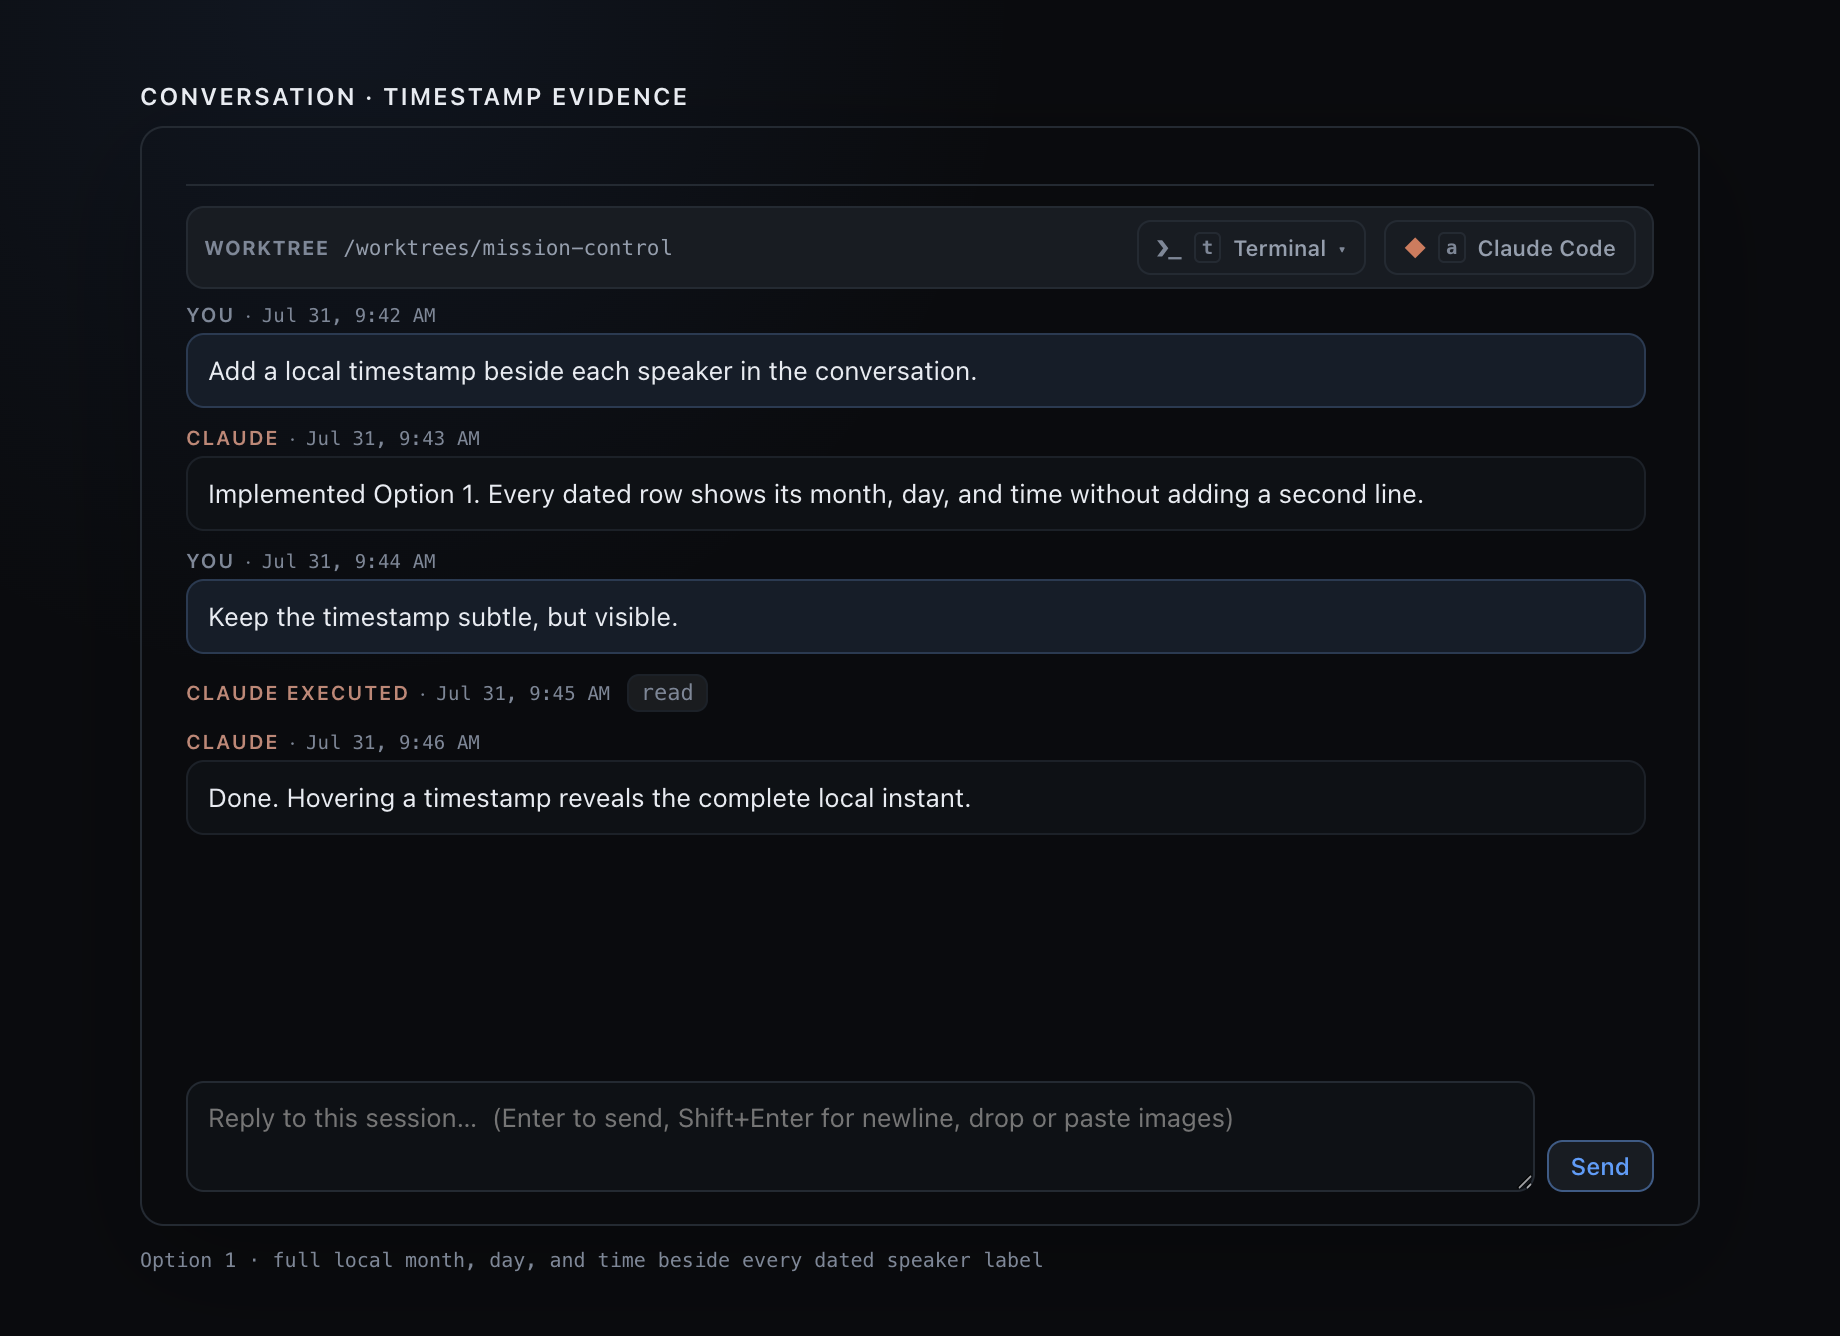
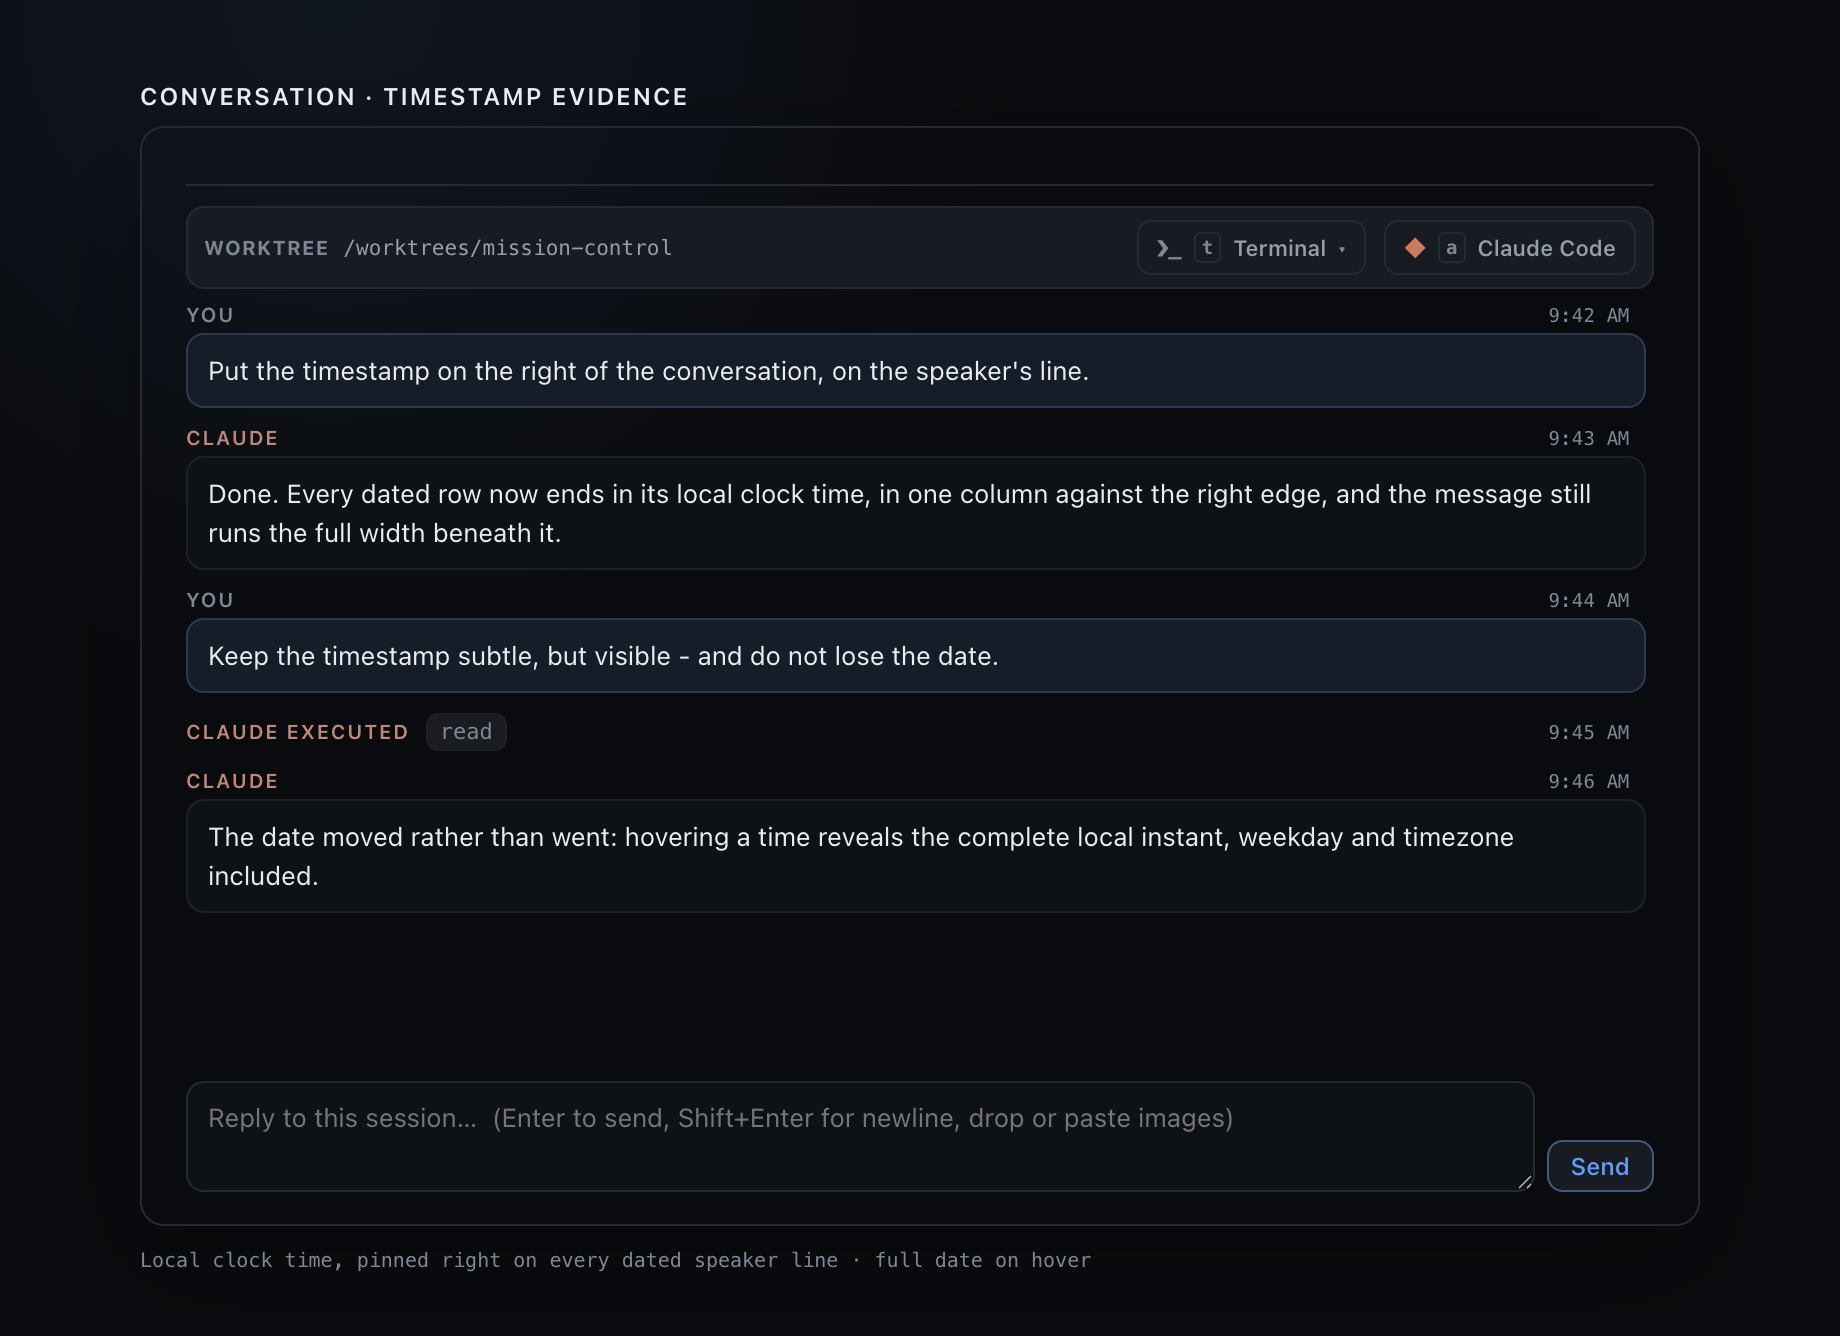
feat(console): pin the conversation clock to the right of each byline
The transcript timestamp followed the speaker label, so it landed in a
different place on every row - the eye had to re-find it after each name.
It is now pinned to the right edge of the row it belongs to, on the
speaker's own baseline, forming one column down the log.

It stays a flex item of the byline's line box rather than a float or a
column of its own, so the message below still runs the full width: the
clock costs the conversation no measure. A folded tool run lays its label
and chips along one line, so its timestamp moves up to the row itself,
which is the box whose right edge is the log's.

The row shows the clock alone. The date was the one field that repeated
unchanged down a whole session, and it is not lost - the hover tooltip
and the accessible description still carry weekday, date, seconds, and
zone. The label/time separator goes with it, having nothing left to part.

One consequence, measured rather than assumed: the platform paints an
overlay scrollbar ON the log, and `scrollbar-gutter: stable` reserves
nothing against it. That was harmless while every row ended in bubble
padding, but it swallowed the clock's last character while scrolling, so
the clock carries its own inset. The bubbles keep their shared right edge
with the reply box.

Evidence capture regenerated; its script now asserts the pinning geometry
before the shutter instead of leaving it to the reviewer's eye.

diff --git a/test/conversation-timestamp.test.ts b/test/conversation-timestamp.test.ts
@@ -1,5 +1,7 @@
 import { beforeEach, test } from "node:test";
 import assert from "node:assert/strict";
+import { readFileSync } from "node:fs";
+import { fileURLToPath } from "node:url";
 import { createElement } from "react";
 import { renderToStaticMarkup } from "react-dom/server";
 import type { ForemanEpisode, TranscriptMessage } from "../src/shared/types.ts";
@@ -18,11 +20,11 @@ const AT = Date.parse("2026-07-31T13:42:07.000Z");
 
 beforeEach(() => resetHistories());
 
-test("conversation timestamps follow an explicit locale and timezone", () => {
-  assert.equal(
-    formatConversationTimestamp(AT, "en-US", "America/New_York"),
-    "Jul 31, 9:42 AM",
-  );
+test("a conversation timestamp shows the clock alone, and hides no part of the instant", () => {
+  // The row is the time only - the date it drops is the field that repeats down the log.
+  assert.equal(formatConversationTimestamp(AT, "en-US", "America/New_York"), "9:42 AM");
+  assert.doesNotMatch(formatConversationTimestamp(AT, "en-US", "America/New_York"), /Jul|31/);
+  // Nothing is lost: the hover and accessible form still carry the whole date.
   const long = formatConversationTimestampLong(AT, "en-US", "America/New_York");
   assert.match(long, /Friday, July 31, 2026/);
   assert.match(long, /9:42:07 AM/);
@@ -55,6 +57,28 @@ test("the conversation dates prose and a folded tool run from its first turn", (
   assert.match(html, /dateTime="2026-07-31T13:42:07.000Z"/);
   assert.match(html, /dateTime="2026-07-31T13:42:08.000Z"/);
   assert.doesNotMatch(html, /dateTime="2026-07-31T13:42:09.000Z"/);
+
+  // Prose keeps its time inside the byline, where `margin-left: auto` carries it to the
+  // right edge of the label's own line - the row below it is untouched and full width.
+  assert.match(html, /<div class="turn-role">you<time class="conversation-time turn-time"/);
+  // A folded run lays label and chips along one line, so its byline cannot reach the row's
+  // right edge; the time is a sibling of both. Asserted by the label div closing on itself.
+  assert.match(html, /turn-toolrun"><div class="turn-role">claude executed<\/div>/);
+  assert.match(html, /<\/div><time class="conversation-time turn-time" dateTime="[^"]+:08/);
+});
+
+test("the byline clock is pinned to the row's right edge, and takes no width from the turn", () => {
+  const css = readFileSync(fileURLToPath(new URL("../src/web/styles.css", import.meta.url)), "utf8");
+  const rule = /\.turn \.turn-time\s*\{([^}]*)\}/.exec(css)?.[1];
+  assert.ok(rule, "no .turn .turn-time rule");
+  // `margin-left: auto` is the whole mechanism: the time stays a flex item of the line it
+  // shares with the speaker, so the turn's text still runs the full width beneath it. A
+  // float or a grid column here would indent every message in the log.
+  assert.match(rule!, /margin-left:\s*auto/);
+  assert.match(rule!, /flex:\s*none/);
+  // The separator existed to part the label from the time. Against the right edge there is
+  // nothing to part, and a lone "·" out there reads as a bullet with a missing line.
+  assert.doesNotMatch(css, /\.turn(-role)? \.turn-time::before/);
 });
 
 function episode(createdAt: number): ForemanEpisode {

diff --git a/src/web/styles.css b/src/web/styles.css
@@ -4717,20 +4717,34 @@ kbd {
 .turn-assistant .turn-role {
   color: color-mix(in oklab, var(--agent-accent, var(--muted)) 70%, var(--muted));
 }
-/* Transcript time is provenance rather than another status badge. It follows the voice
-   label in the utility face and yields visually to whichever speaker colour is active. */
-.turn-role .turn-time {
+/* Transcript time is provenance rather than another status badge. It keeps the speaker's
+   baseline, wears the utility face, and yields visually to whichever speaker colour is
+   active - but it sits at the far right of the row rather than trailing the label. Names
+   differ in length, so a time that follows the label lands in a different place on every
+   row and has to be re-found each time; against the right edge it forms one column the eye
+   can run down. It stays a flex item of the byline's own line box (`margin-left: auto`, not
+   a float or a column of its own), so the turn's text below still uses the full width of
+   the log - the timestamp costs the conversation no measure at all. */
+.turn .turn-time {
+  flex: none;
+  margin-left: auto;
+  /* Clears the platform's overlay scrollbar, which paints ON the log rather than beside
+     it - measured, not assumed: `scrollbar-gutter: stable` reserves nothing here because
+     the bar is an overlay. Every other row ends in bubble padding, so the bar had nothing
+     to hide until the clock moved out here; without this the last character is swallowed
+     for as long as you are scrolling, which is exactly when it is being read. Carried by
+     the clock alone so the bubbles keep their shared right edge with the reply box. */
+  padding-right: 8px;
   color: var(--dim);
   font: 500 9.5px/1 var(--mono);
   letter-spacing: 0.01em;
   text-transform: none;
   white-space: nowrap;
 }
-.turn-role .turn-time::before {
-  content: "·";
-  margin: 0 5px;
-  color: var(--dim);
-  font-family: var(--sans);
+/* A floor on the gap, for the byline long enough to reach across the row. The folded tool
+   run gets the same guarantee from its row `gap`. */
+.turn-role .turn-time {
+  padding-left: 10px;
 }
 .turn-text {
   white-space: pre-wrap;

diff --git a/scripts/conversation-timestamp-evidence.tsx b/scripts/conversation-timestamp-evidence.tsx
@@ -17,21 +17,21 @@ const messages: TranscriptMessage[] = [
   {
     id: "timestamp-user-1",
     role: "user",
-    text: "Add a local timestamp beside each speaker in the conversation.",
+    text: "Put the timestamp on the right of the conversation, on the speaker's line.",
     tools: [],
     ts: at(9, 42, 7),
   },
   {
     id: "timestamp-assistant-1",
     role: "assistant",
-    text: "Implemented Option 1. Every dated row shows its month, day, and time without adding a second line.",
+    text: "Done. Every dated row now ends in its local clock time, in one column against the right edge, and the message still runs the full width beneath it.",
     tools: [],
     ts: at(9, 43, 15),
   },
   {
     id: "timestamp-user-2",
     role: "user",
-    text: "Keep the timestamp subtle, but visible.",
+    text: "Keep the timestamp subtle, but visible - and do not lose the date.",
     tools: [],
     ts: at(9, 44, 3),
   },
@@ -45,7 +45,7 @@ const messages: TranscriptMessage[] = [
   {
     id: "timestamp-assistant-2",
     role: "assistant",
-    text: "Done. Hovering a timestamp reveals the complete local instant.",
+    text: "The date moved rather than went: hovering a time reveals the complete local instant, weekday and timezone included.",
     tools: [],
     ts: at(9, 46, 1),
   },
@@ -164,7 +164,7 @@ function EvidenceApp(): React.JSX.Element {
           </div>
         </section>
         <p className="evidence-note">
-          Option 1 · full local month, day, and time beside every dated speaker label
+          Local clock time, pinned right on every dated speaker line · full date on hover
         </p>
       </main>
     </OverlayHost>

diff --git a/src/web/lib/format.ts b/src/web/lib/format.ts
@@ -16,15 +16,20 @@ export function relativeTime(ms: number | null, now = Date.now()): string {
 }
 
 /**
- * A conversation turn's compact local timestamp.
+ * A conversation turn's compact local timestamp: the clock time alone.
  *
  * The transcript stores an instant, not a display zone. Mission Control is local software,
  * so the browser's locale and timezone are the useful default: the operator reads the time
  * in the same clock as the terminal beside it. Locale and zone stay injectable for tests.
+ *
+ * The date is deliberately absent. A transcript is read as one session's vertical run of
+ * work, where the calendar date is the same on row after row and the clock is the only
+ * part that separates them - so repeating "Jul 31" down the whole log spends width on the
+ * one field that never distinguishes anything. The complete instant is never lost: the
+ * long form below carries weekday, date, seconds, and zone, and it is what every row
+ * exposes on hover and to assistive technology.
  */
 const CONVERSATION_TIMESTAMP_OPTIONS: Intl.DateTimeFormatOptions = {
-  month: "short",
-  day: "numeric",
   hour: "numeric",
   minute: "2-digit",
 };

diff --git a/src/web/components/TranscriptPanel.tsx b/src/web/components/TranscriptPanel.tsx
@@ -912,11 +912,12 @@ function ToolRun({
 }): React.JSX.Element {
   return (
     <div className="turn turn-assistant turn-toolrun">
-      <div className="turn-role">
-        {agentLabel} executed
-        <ConversationTimestamp at={ts} className="turn-time" />
-      </div>
+      <div className="turn-role">{agentLabel} executed</div>
       <ToolChips tools={tools} find={find} />
+      {/* The same byline time as a prose turn, but a child of the row rather than of the
+          label: a folded run lays its label and its chips along one line, so the right
+          edge the timestamp is pinned to belongs to the row, not to the byline. */}
+      <ConversationTimestamp at={ts} className="turn-time" />
     </div>
   );
 }

diff --git a/README.md b/README.md
@@ -806,11 +806,15 @@ rest on demand. A card open reads a bounded tail rather than the file - a long s
 transcript runs to tens of megabytes, most of it tool output - so the panel is quick to
 open whatever the session has been doing.
 
-Every dated row carries its local month, day, and time beside the speaker, such as
-**You · Jul 31, 9:42 AM**. Hover it for the complete local instant with year, seconds, and
-timezone. A transcript record with no timestamp shows none rather than inventing one; a
-folded run of tool calls shows when that run began. Inline Foreman entries use the same
-absolute clock, while the Foreman history drawer keeps its relative age. See the
+Every dated row carries its local clock time on the speaker's line, pinned to the right
+edge of the log - **You** on the left, **9:42 AM** on the right - so the times read as one
+column instead of landing wherever each speaker's name happens to end. The message itself
+still runs the full width beneath, so the clock costs the conversation no measure. Hover a
+time for the complete local instant with weekday, date, seconds, and timezone; the date is
+there rather than on every row, where it would repeat unchanged down a whole session. A
+transcript record with no timestamp shows none rather than inventing one; a folded run of
+tool calls shows when that run began. Inline Foreman entries use the same absolute clock,
+while the Foreman history drawer keeps its relative age. See the
 [runtime capture](docs/evidence/conversation-timestamps/README.md) for the rendered layout.
 
 Scroll to the top of the log and the page above loads automatically, then the page above

diff --git a/docs/evidence/conversation-timestamps/README.md b/docs/evidence/conversation-timestamps/README.md
@@ -2,10 +2,12 @@
 
 This capture renders the production `TranscriptPanel`, `ConversationTimestamp`, and
 `src/web/styles.css` in Electron. The seeded conversation uses fixed local times so the
-image demonstrates Option 1's full per-row format and its placement beside each speaker:
-`You · Jul 31, 9:42 AM` and `Claude · Jul 31, 9:43 AM`.
+image demonstrates the per-row format and its placement: the clock alone (`9:42 AM`,
+`9:43 AM`), pinned to the right edge of the speaker's line, with each message flowing the
+full width beneath it. The date is not dropped, only moved - it is in the hover tooltip and
+the accessible description on every row.
 
-![Conversation rows with timestamps beside each speaker](conversation-timestamps.png)
+![Conversation rows with the clock pinned to the right of each speaker line](conversation-timestamps.png)
 
 To regenerate the capture from the repository root:
 
